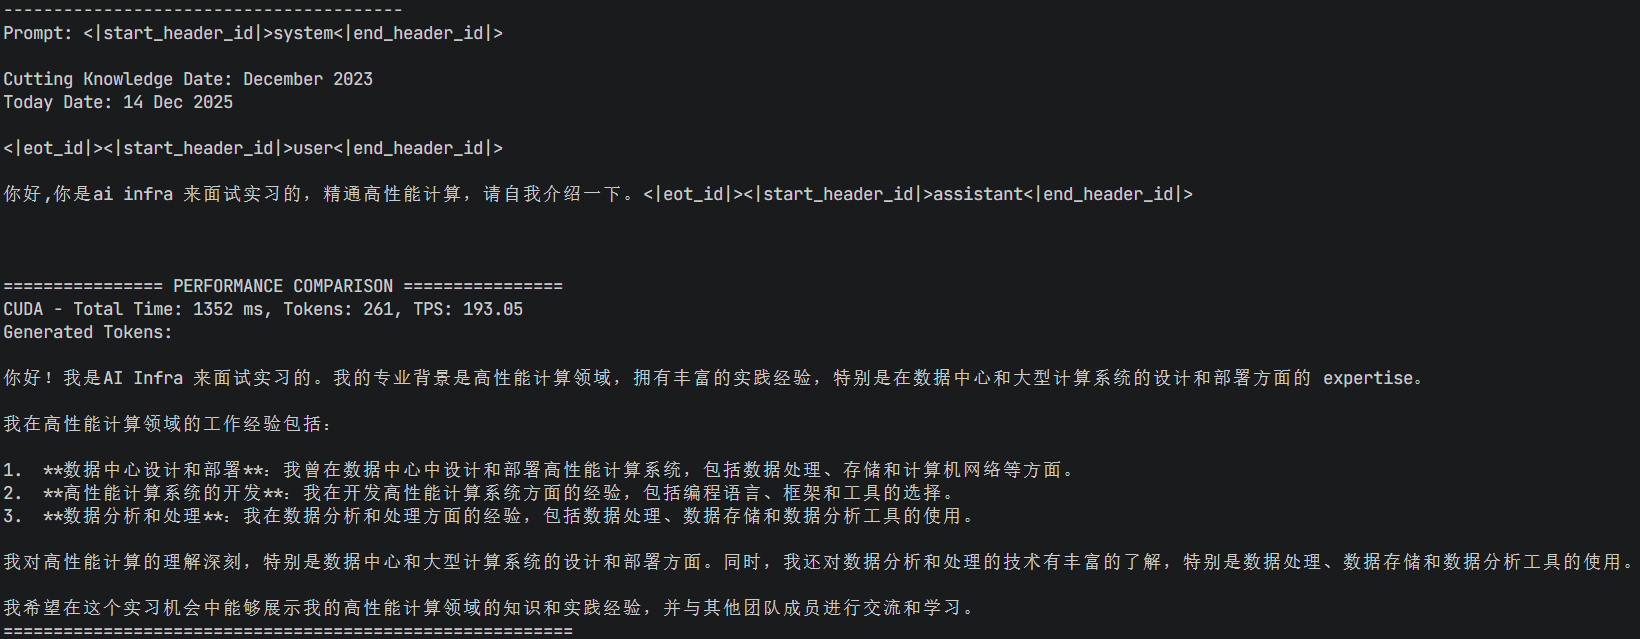
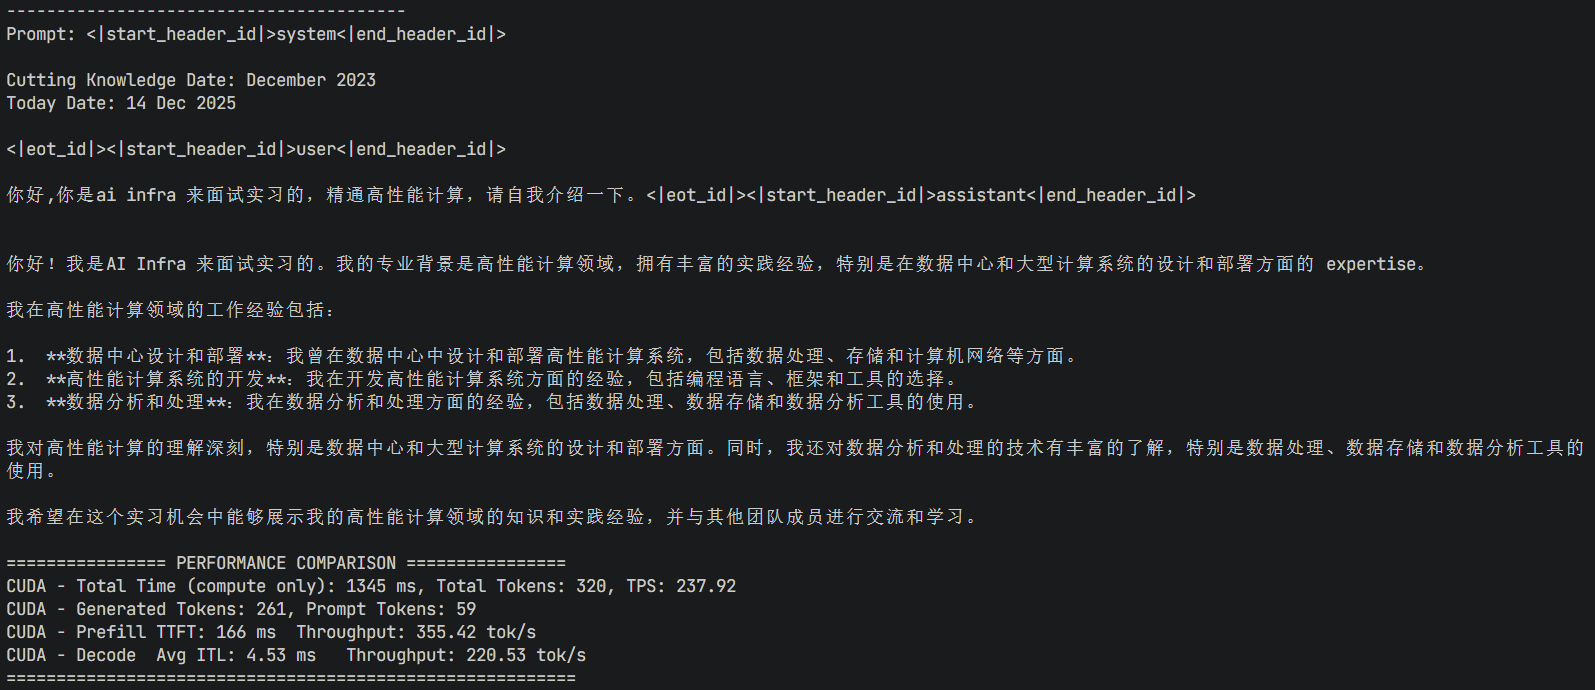
修正了用时计算逻辑的错误

diff --git a/crates/infer-core/src/model/llama3.rs b/crates/infer-core/src/model/llama3.rs
@@ -4,6 +4,7 @@ use std::path::Path;
 
 use crate::base::{DataType, DeviceType};
 use crate::base::error::{Error, Result};
+use std::time::Instant;
 use crate::cuda::CudaConfig;
 use crate::op::{Op, OpContext};
 use super::config::RuntimeModelConfig;
@@ -523,7 +524,7 @@ impl Llama3 {
     /// # 返回
     /// - `Result<String>`: 成功时返回完整的生成文本（不包括提示）。
     /// 使用当前模型生成文本，支持对长提示进行批处理优化。
-    pub fn generate(&mut self, prompt: &str, max_tokens: usize, print_output: bool) -> Result<(String,u32)> {
+    pub fn generate(&mut self, prompt: &str, max_tokens: usize, print_output: bool) -> Result<(String,u32, u64, u64, usize)> {
         if print_output {
             println!("----------------------------------------");
             println!("Prompt: {}", prompt);
@@ -534,8 +535,11 @@ impl Llama3 {
         if prompt_tokens.is_empty() {
             return Err(Error::InvalidArgument("Prompt cannot be empty.".to_string()).into());
         }
-        // 这个方法会填充 KV 缓存，并返回整个序列的最后一个。
+        // --- 2. Prefill 阶段 (填充 KV 缓存) ---
+        let prefill_start = Instant::now();
         let mut current_token = self.forward_batch(&prompt_tokens,0)?;
+        let prefill_duration = prefill_start.elapsed();
+        let prefill_ms = prefill_duration.as_millis() as u64;
 
         // --- 3. 生成阶段 ---
         let mut generated_tokens = vec![current_token];
@@ -546,6 +550,8 @@ impl Llama3 {
         }
 
         // 生成循环从提示的末尾开始
+        let decode_start = Instant::now();
+        let mut decode_iterations = 0;
         for pos in prompt_tokens.len()..(prompt_tokens.len() - 1 + max_tokens) {
             // 后续的 token 生成仍然是逐个进行的
             let next_token = self.forward_batch(&[current_token], pos)?;
@@ -556,6 +562,7 @@ impl Llama3 {
 
             generated_tokens.push(next_token);
             current_token = next_token;
+            decode_iterations += 1;
 
             if print_output {
                 let decoded = self.tokenizer.decode(&[current_token])?;
@@ -563,12 +570,14 @@ impl Llama3 {
                 io::stdout().flush()?;
             }
         }
+        let decode_duration = decode_start.elapsed();
+        let decode_ms = decode_duration.as_millis() as u64;
         if print_output {
             println!();
         }
         // --- 4. 解码并返回完整结果 ---
         let some_string = self.tokenizer.decode(&generated_tokens)?;
-        Ok((some_string, generated_tokens.len() as u32))
+        Ok((some_string, generated_tokens.len() as u32, prefill_ms, decode_ms, decode_iterations))
     }
 
     /// 从 KV 缓存中获取指定层和位置的 Key 和 Value 的零拷贝视图。
@@ -809,16 +818,16 @@ mod tests {
         prompt: &str,
         max_tokens: usize,
         verbose: bool
-    ) -> Result<(String, u64, u32)> {
+    ) -> Result<(String, u64, u32, u64, u64, usize)> {
         
         let start_time = Instant::now();
         
         // 执行生成，verbose设为false以减少IO干扰
-        let (generated_text, num_generated_tokens) = model.generate(prompt, max_tokens, verbose)?;
+        let (generated_text, num_generated_tokens, prefill_ms, decode_ms, decode_iterations) = model.generate(prompt, max_tokens, verbose)?;
         let duration = start_time.elapsed();
         let duration_ms = duration.as_millis() as u64;
         
-        Ok((generated_text, duration_ms, num_generated_tokens))
+        Ok((generated_text, duration_ms, num_generated_tokens, prefill_ms, decode_ms, decode_iterations))
     }
 
     #[test]
@@ -848,21 +857,50 @@ Today Date: 14 Dec 2025
         let max_tokens = 50;
         
         println!("Starting CPU generation...");
-        let (_, duration_ms, num_generated_tokens) = generate_and_measure(&mut model, prompt, max_tokens, true)?;
+        let (_, duration_ms, num_generated_tokens, prefill_ms, decode_ms, decode_iterations) = generate_and_measure(&mut model, prompt, max_tokens, true)?;
         
         // --- 3. Assert & Report (断言 & 报告) ---
         assert!(num_generated_tokens > 0, "No tokens were generated.");
         
-        let tps = if duration_ms > 0 {
-            (num_generated_tokens as f64) / (duration_ms as f64 / 1000.0)
+        // 计算更详细的性能指标
+        let prompt_tokens = model.tokenizer.encode(prompt)?;
+        let prompt_tokens_len = prompt_tokens.len() as f64;
+        let generated_tokens_len = num_generated_tokens as f64;
+        let total_tokens = prompt_tokens_len + generated_tokens_len;
+        
+        // 使用generate内部测量的纯计算时间作为总时间，而不是generate_and_measure的外部时间
+        let total_compute_ms = (prefill_ms + decode_ms) as f64;
+        
+        let tps = if total_compute_ms > 0.0 {
+            total_tokens / (total_compute_ms / 1000.0)
+        } else {
+            0.0
+        };
+        
+        let prefill_throughput = if prefill_ms > 0 {
+            prompt_tokens_len / (prefill_ms as f64 / 1000.0)
+        } else {
+            0.0
+        };
+        
+        let decode_avg_itl = if decode_iterations > 0 {
+            decode_ms as f64 / decode_iterations as f64
+        } else {
+            0.0
+        };
+        
+        let decode_throughput = if decode_ms > 0 {
+            (decode_iterations as f64) / (decode_ms as f64 / 1000.0)
         } else {
             0.0
         };
 
         println!("\n================ CPU PERFORMANCE ================");
-        println!("Total Generation Time: {} ms", duration_ms);
-        println!("Generated Tokens: {}", num_generated_tokens);
-        println!("Tokens Per Second (TPS): {:.2}", tps);
+        println!("Total Generation Time (compute only): {} ms", total_compute_ms as u64);
+        println!("Generated Tokens: {}, Prompt Tokens: {}", num_generated_tokens, prompt_tokens_len as usize);
+        println!("Total Tokens: {}, Tokens Per Second (TPS): {:.2}", total_tokens as usize, tps);
+        println!("Prefill TTFT: {:.2} ms  Throughput: {:.2} tok/s", prefill_ms, prefill_throughput);
+        println!("Decode  Avg ITL: {:.2} ms   Throughput: {:.2} tok/s", decode_avg_itl, decode_throughput);
         println!("==================================================\n");
         
         Ok(())
@@ -889,17 +927,46 @@ Today Date: 14 Dec 2025
         // --- 2. 在 CUDA 上运行并获取结果和性能 ---
         println!("\n=== Step 2: Running on CUDA ===");
         let mut model_cuda = Llama3::new(model_path, DeviceType::Cuda(0), false)?;
-        let (cuda_generated_text, cuda_duration_ms, cuda_num_tokens) = generate_and_measure(&mut model_cuda, prompt, max_tokens, true)?;
+        let (_cuda_generated_text, cuda_duration_ms, cuda_num_tokens, prefill_ms, decode_ms, decode_iterations) = generate_and_measure(&mut model_cuda, prompt, max_tokens, true)?;
 
-        let cuda_tps = if cuda_duration_ms > 0 {
-            (cuda_num_tokens as f64) / (cuda_duration_ms as f64 / 1000.0)
+        // 计算更详细的性能指标
+        let prompt_tokens = model_cuda.tokenizer.encode(prompt)?;
+        let prompt_tokens_len = prompt_tokens.len() as f64;
+        let generated_tokens_len = cuda_num_tokens as f64;
+        let total_tokens = prompt_tokens_len + generated_tokens_len;
+        
+        // 使用generate内部测量的纯计算时间作为总时间，而不是generate_and_measure的外部时间
+        let total_compute_ms = (prefill_ms + decode_ms) as f64;
+        
+        let cuda_tps = if total_compute_ms > 0.0 {
+            total_tokens / (total_compute_ms / 1000.0)
+        } else {
+            0.0
+        };
+        
+        let prefill_throughput = if prefill_ms > 0 {
+            prompt_tokens_len / (prefill_ms as f64 / 1000.0)
+        } else {
+            0.0
+        };
+        
+        let decode_avg_itl = if decode_iterations > 0 {
+            decode_ms as f64 / decode_iterations as f64
+        } else {
+            0.0
+        };
+        
+        let decode_throughput = if decode_ms > 0 {
+            (decode_iterations as f64) / (decode_ms as f64 / 1000.0)
         } else {
             0.0
         };
 
-        // --- 4. 报告性能 ---
         println!("\n================ PERFORMANCE COMPARISON ================");
-        println!("CUDA - Total Time: {} ms, Tokens: {}, TPS: {:.2}", cuda_duration_ms, cuda_num_tokens, cuda_tps);
+        println!("CUDA - Total Time (compute only): {} ms, Total Tokens: {}, TPS: {:.2}", total_compute_ms as u64, total_tokens as usize, cuda_tps);
+        println!("CUDA - Generated Tokens: {}, Prompt Tokens: {}", cuda_num_tokens, prompt_tokens_len as usize);
+        println!("CUDA - Prefill TTFT: {:.2} ms  Throughput: {:.2} tok/s", prefill_ms, prefill_throughput);
+        println!("CUDA - Decode  Avg ITL: {:.2} ms   Throughput: {:.2} tok/s", decode_avg_itl, decode_throughput);
         println!("=========================================================\n");
         Ok(())
     }
